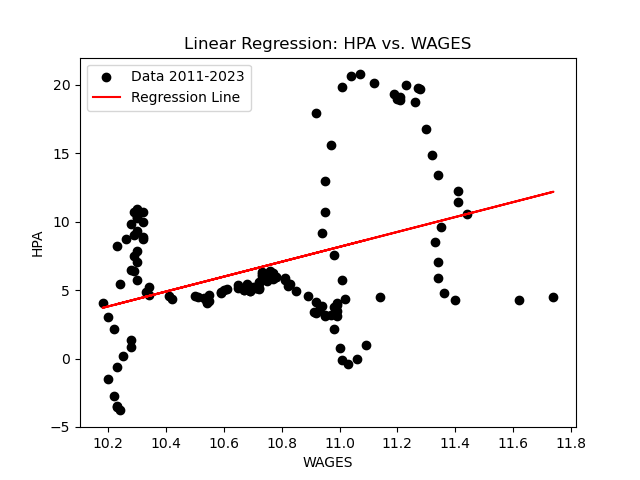
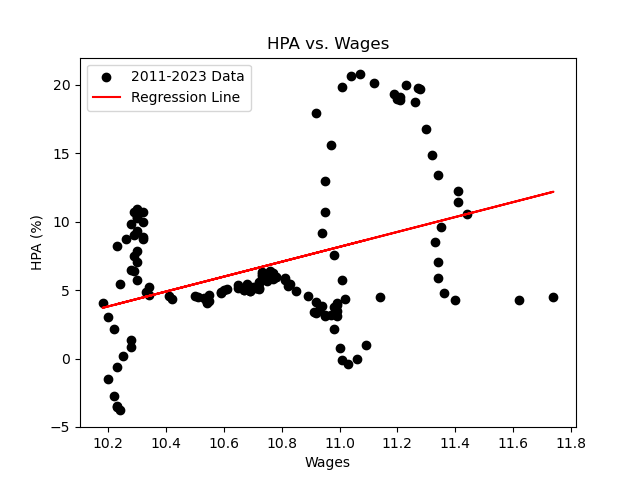
new visualizations

Changed region(s): [[0.1875, 0.0625, 0.75, 0.1875], [0.4688, 0.9375, 0.5625, 1.0], [0.0312, 0.4375, 0.0625, 0.5625]]

diff --git a/linreg.py b/linreg.py
@@ -20,11 +20,23 @@ def linreg(x, y):
     return mse, model.coef_, model.intercept_
 
 def visualize_all(x, y, coeff, intercept, var, prefix):
-    plt.scatter(x, y, color='black', label='Data 2011-2023')
+    var_to_xlabel = {'MORTGAGE': "Mortgage Rates",
+                     'MORTGAGE_PC': "Annual Percent Change of Mortgage Rates",
+                     'SUPPLY': "Housing Supply",
+                     'SUPPLY_PC': "Annual Percent Change of Housing Supply",
+                     'TENYRT': "10-Year Treasury Rates",
+                     'TENYRT_PC': "Annual Percent Change of 10-Year Treasury Rates",
+                     'UNEMPLOYMENT': "Unemployment",
+                     'UNEMPLOYMENT_PC': "Annual Percent Change of Unemployment",
+                     'WAGES': "Wages",
+                     'WAGES_PC': "Annual Percent Change of Wages"}
+    label = var_to_xlabel[var]
+
+    plt.scatter(x, y, color='black', label='2011-2023 Data')
     plt.plot(x, coeff[0] * x + intercept, color='red', label='Regression Line')
-    plt.title('Linear Regression: HPA vs. ' + var)
-    plt.xlabel(var)
-    plt.ylabel("HPA")
+    plt.title('HPA vs. ' + label)
+    plt.xlabel(label)
+    plt.ylabel("HPA (%)")
     plt.legend()
     plt.savefig(prefix + var)
     plt.clf()
@@ -48,20 +60,31 @@ def visualize_eras(x, y, dataset_years_df, var, prefix):
         _, coeff, intercept = linreg(eras[i][0], eras[i][1])
         plt.plot(x, coeff[0] * x + intercept, color=colors[i], label=years[i] + ' RL')
     
-    plt.title('Linear Regression: HPA vs. ' + var)
-    plt.xlabel(var)
-    plt.ylabel("HPA")
+
+    var_to_xlabel = {'MORTGAGE': "Mortgage Rates",
+                     'MORTGAGE_PC': "Annual Percent Change of Mortgage Rates",
+                     'SUPPLY': "Housing Supply",
+                     'SUPPLY_PC': "Annual Percent Change of Housing Supply",
+                     'TENYRT': "10-Year Treasury Rates",
+                     'TENYRT_PC': "Annual Percent Change of 10-Year Treasury Rates",
+                     'UNEMPLOYMENT': "Unemployment",
+                     'UNEMPLOYMENT_PC': "Annual Percent Change of Unemployment",
+                     'WAGES': "Wages",
+                     'WAGES_PC': "Annual Percent Change of Wages"}
+    label = var_to_xlabel[var]
+
+    plt.title('HPA vs. ' + label)
+    plt.xlabel(label)
+    plt.ylabel("HPA (%)")
     plt.ylim(-5, 22)
-    plt.legend()
+    plt.legend(loc='upper right')
     plt.savefig(prefix + var)
     plt.clf()
-
 
 def main():
     dataset_df = pd.read_csv("datasets/new_wm_dataset.csv", parse_dates=['DATE'])
     dataset_years_df = splitByEra(dataset_df)
 
-    predict_hpi = 'HPI'
     predict_hpa = 'HPA_PC'
     variables = ["TENYRT", "TENYRT_PC","MORTGAGE","MORTGAGE_PC","UNEMPLOYMENT","UNEMPLOYMENT_PC","WAGES","WAGES_PC","SUPPLY","SUPPLY_PC"]
     
